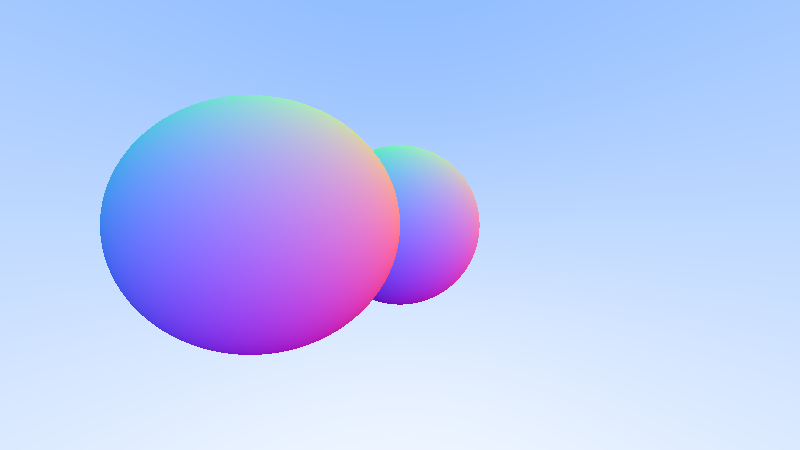
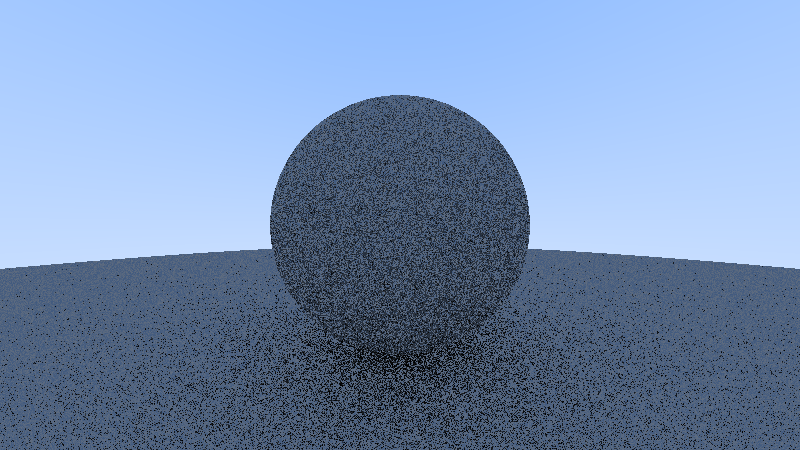
Fixed an error when computing diffuse meterial values

diff --git a/src/main.rs b/src/main.rs
@@ -1,9 +1,7 @@
-mod color;
 mod shapes;
 mod ray;
 mod hits;
 
-use color::Color;
 use ray::Ray;
 use shapes::Sphere;
 use cgmath::{Vector3, InnerSpace};
@@ -21,7 +19,7 @@ fn rand_normal() -> Vector3<f64> {
             distribution.sample(&mut rng),
             distribution.sample(&mut rng));
 
-        if random.dot(random) <= 1.0 {
+        if random.dot(random) < 1.0 {
             return random.normalize();
         }
     }
@@ -32,43 +30,43 @@ fn rand_on_hemisphere(normal: Vector3<f64>) -> Vector3<f64> {
     return if random.dot(normal) > 0.0 { random } else { -random }
 }
 
-fn sky_color(ray: Ray) -> Color {
-    let normalized = ray.direction.normalize();
-    let alpha = 0.5 * (normalized.y + 1.0);
-    let value = (1.0 - alpha)* Vector3::new(1.0, 1.0, 1.0) + alpha * Vector3::new(0.5, 0.7, 1.0);
-
-    return Color {
-        red:    (255.999 * value.x) as u8,
-        green:  (255.999 * value.y) as u8,
-        blue:   (255.999 * value.z) as u8
-    };
+fn color_from_vector(color: Vector3<f64>) -> image::Rgb<u8> {
+    image::Rgb([
+        (255.999 * color.x) as u8,
+        (255.999 * color.y) as u8,
+        (255.999 * color.z) as u8
+    ])
 }
 
-fn ray_color(ray: Ray) -> Color {
+fn sky_color(ray: Ray) -> Vector3<f64> {
+    let normalized = ray.direction.normalize();
+    let alpha = 0.5 * (normalized.y + 1.0);
+    return (1.0 - alpha)* Vector3::new(1.0, 1.0, 1.0) + alpha * Vector3::new(0.5, 0.7, 1.0)
+}
+
+fn ray_color(ray: Ray, max_depth: u32) -> Vector3<f64> {
+    if max_depth <= 0 {
+        return Vector3::new(255.0, 255.0, 255.0);
+    } 
+    
     let objects: Vec<Box<dyn Hittable>> = vec!(
         Box::new(Sphere {
-            origin: Vector3::new(-0.5, 0.0, -1.0),
+            origin: Vector3::new(0.0, 0.0, -1.0),
             radius: 0.5
         }),
         Box::new(Sphere {
-            origin: Vector3::new(0.0, 0.0, -1.5),
-            radius: 0.5
+            origin: Vector3::new(0.0, -100.5, -1.0),
+            radius: 100.0
         })
     );
 
-    let t_max = 1000.0;
+    let t_max = 100000000.0;
     let t_min = 0.001;
 
     return match objects.hit(ray, t_min, t_max) {
         Some(record) => {
             let direction = rand_on_hemisphere(record.normal);
-            return ray_color(Ray::new(record.hit, direction));
-            // let value: Vector3<f64> = 0.5 * (record.normal + Vector3::new(1.0, 1.0, 1.0));
-            // return Color { 
-                // red:   (255.999 * value.x) as u8,
-                // green: (255.999 * value.y) as u8,
-                // blue:  (255.999 * value.z) as u8
-            // };
+            return 0.5 * ray_color(Ray::new(record.hit, direction), max_depth - 1);
         },
         None => sky_color(ray)
     }
@@ -106,9 +104,9 @@ fn main() {
             let pixel = pixel_upper_left + (i as f64) * delta_u + (j as f64) * delta_v;
             let ray_direction = pixel - camera_center;
             let ray = Ray::new(camera_center, ray_direction.clone());
-            let color = ray_color(ray);
             let pixel = image.get_pixel_mut(i, j);
-            *pixel = image::Rgb([color.red, color.green, color.blue]);
+            let color = ray_color(ray, 50);
+            *pixel = color_from_vector(color);
         }
     }
     image.save("test.png").unwrap();

diff --git a/src/shapes.rs b/src/shapes.rs
@@ -29,19 +29,18 @@ impl Hittable for Sphere {
         // TODO: This function should be refactored once I have some time
         let oc = ray.origin - self.origin;
         let a: f64 = ray.direction.dot(ray.direction);
-        let half_b: f64 = oc.dot(ray.direction);
+        let half_b: f64 = ray.direction.dot(oc);
         let c: f64 = oc.dot(oc) - self.radius * self.radius;
         let discriminant = half_b * half_b - a * c;
-
         if discriminant < 0.0 { return None; }
 
         let sqrtd = discriminant.sqrt();
         
         let is_inside_interval = |x| {
-            return min_distance <= x ||  x <= max_distance;
+            return min_distance <= x && x <= max_distance;
         };
         let left_root = (-half_b - sqrtd) / a;
-        let right_root = (-half_b - sqrtd) / a;
+        let right_root = (-half_b + sqrtd) / a;
 
         let mut closest_root = left_root;
         if !is_inside_interval(left_root) {
@@ -50,10 +49,12 @@ impl Hittable for Sphere {
                 return None;
             }
         }
+        // let outward_normal = (ray.at(closest_root) - self.origin) / self.radius;
+        // let front_facing = ray.direction.dot(outward_normal) < 0.0;
         return Some(HitRecord {
             hit: ray.at(closest_root),
             distance: closest_root,
-            normal: (ray.at(closest_root) - self.origin) / self.radius
+            normal: (ray.at(closest_root) - self.origin) / self.radius // if front_facing { outward_normal } else { -outward_normal }
         });
     }
 }
